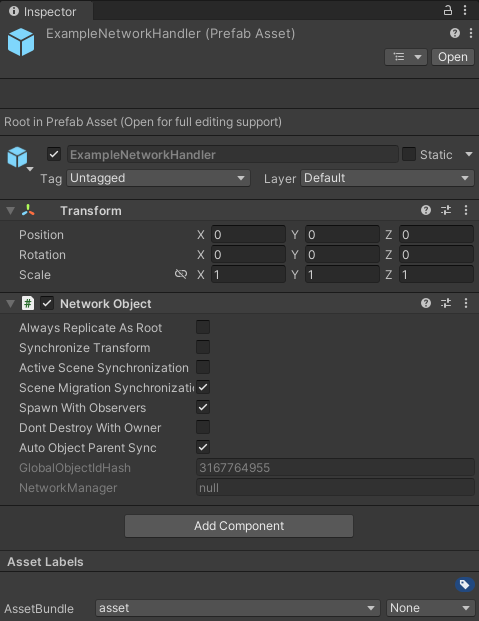
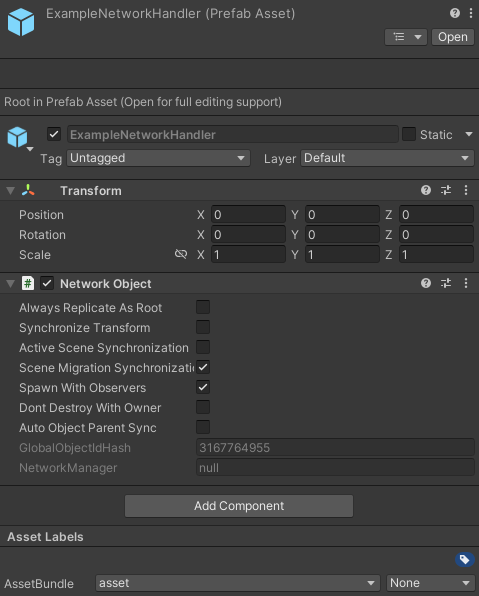
Add a warning to article; Change block quotes to Info blocks (#22)
* Add a warning to article; Change block quotes to Info blocks

some clarification and emphasis as well

* Remove Netstandard2.1 Requirement Info

Unity Netcode Weaver no longer requires using netstandard2.1 - was an assumption that it was potentially causing errors, but does not seem like it does

* Update Prefab Picture

Evaisa recommended disabling Auto Object Parent Sync in the Network Object component due to issues they've ran into due to it being enabled

diff --git a/docs/user-guide/modding/advanced/networking.md b/docs/user-guide/modding/advanced/networking.md
@@ -1,7 +1,8 @@
 # Custom Networking
 
->**Note:** This is not a tutorial on how to use Unity's [Netcode for GameObjects](https://docs-multiplayer.unity3d.com/netcode/current/tutorials/get-started-ngo/) RPCs and Network Variables.  
->This is only meant to be used to understand <i>how</i> to implement custom networking into the game.
+!> **Warning: This is an advanced article. While this introduces some C# concepts, it is highly recommended to understand C# and the basics of modding this game <i>before</i> reading this article.**
+
+?>**Note:** This is not a tutorial on how to use Unity's [Netcode for GameObjects](https://docs-multiplayer.unity3d.com/netcode/current/tutorials/get-started-ngo/) RPCs and Network Variables. This is only meant to be used to understand <i>how</i> to implement custom networking into the game.
 
 ## Preface
 
@@ -55,8 +56,6 @@ Essentially, this allows you to create and use RPCs, Network Variables, etc.
 ### Other Setup Required
 
 There **must** be a project reference to `Unity.Netcode.Runtime.dll` to utilize Netcode for GameObjects. You can refer to [this section](./starting-a-mod?id=adding-game-assemblies) of this wiki to add it.
-
-><b><i>In addition, the mod must use </i></b>`netstandard2.1`<b><i>. Failure to do so can cause Unity Netcode Weaver to not function!</i></b> (You should be using `netstandard2.1` anyways since the game is built with that.)
 
 ## Introduction
 
@@ -254,9 +253,7 @@ Now that we have the prefab ready to be loaded, it's quite simple to give this t
 NetworkManager.Singleton.AddNetworkPrefab(networkPrefab);
 ```
 
->**Note:** You can only add network prefabs to NetworkManager **before** the player creates or joins a server. You can also do so after the player leaves the server.
->
->If you try to add a network prefab while the player is connected to a server, it will result in an error and your object <u>will not</u> be loaded.
+?>**Note:** You can only add network prefabs to NetworkManager **before** the player creates or joins a server. You can also do so after the player leaves the server.<br><br>If you try to add a network prefab while the player is connected to a server, it will result in an error and your object <u>will not</u> be loaded.
 
 To prevent any errors, we do this shortly after the prefab is loaded:
 
@@ -283,9 +280,7 @@ var networkHandlerHost = Object.Instantiate(networkPrefab, Vector3.zero, Quatern
 networkHandlerHost.GetComponent<NetworkObject>().Spawn();
 ```
 
->**Note:** While you can put <i>false</i> as a parameter in the Spawn method to prevent the game from auto-deleting the object, you shouldn't in this case! The object stays loaded in `SampleSceneRelay`, which is the main ship scene. 
->
->This scene never gets unloaded until disconnecting from the server - <i>precisely</i> when we want the network object to be destroyed!
+?>**Note:** While you can put <i>false</i> as a parameter in the Spawn method to prevent the game from auto-deleting the object, you shouldn't in this case! The object stays loaded in `SampleSceneRelay`, which is the main ship scene.<br><br>This scene never gets unloaded until disconnecting from the server - <i>precisely</i> when we want the network object to be destroyed!
 
 But wait, there's a catch: Only the host/server is allowed to spawn the network object! To prevent clients from spawning the object, we can do something simple. We just check whether the game instance is a host or a client:
 
@@ -363,19 +358,15 @@ static void ReceivedEventFromServer(string eventName)
 
 What does this all do? Well, `NetworkHandler.LevelEvent += ReceivedEventFromServer` simply tells C# that we want `ReceivedEventFromServer(string eventName)` to run when the `LevelEvent` event is invoked. `NetworkHandler.LevelEvent -= Received` tells C# that we no longer want `ReceivedEventFromServer` to run when the event is invoked.
 
->**Note:** When subscribing and unsubscribing to an event, make sure that <i>both</i> the host and the client do so. Both `GenerateNewLevelClientRpc` and `DespawnPropsAtEndOfRound` run on all game instances - even if the latter method immediately attempts to return if the game instance is not the host.
->
->If you don't ensure both the host and clients subscribe/unsubscribe to an event, it very quickly leads to unwanted behavior. For example, if the client doesn't unsubscribe in our test mod, events will be duplicated on client instances since the event will be subscribed to multiple times.
+?>**Note:** When subscribing and unsubscribing to an event, make sure that <i>both</i> the host and the client do so. Both `GenerateNewLevelClientRpc` and `DespawnPropsAtEndOfRound` run on all game instances - even if the latter method immediately attempts to return if the game instance is not the host.<br><br>If you don't ensure both the host and clients subscribe/unsubscribe to an event, it very quickly leads to unwanted behavior. For example, if the client doesn't unsubscribe in our test mod, events will be duplicated on client instances since the event will be subscribed to multiple times.
 
 ## Using UnityNetcodeWeaver
 
 Now that we've finished the networking code, all that's left is to patch the compiled mod assembly with Unity Netcode Weaver/Patcher. Before we can do so, we need to prepare the mod for patching. 
 
-First, ***ensure that you are using netstandard2.1 [as aforementioned.](/custom-networking?id=other-setup-required)***
+1. Make sure that there is a .pdb file when you build your plugin. If it is not there, make sure that Debug Symbols is set to `Portable` and not embedded.
 
-Second, make sure that there is a .pdb file when you build your plugin. If it is not there, make sure that Debug Symbols is set to `Portable` and not embedded.
-
-Finally, add the following code to your main Plugin.cs file, and make sure the method only runs once:
+2. Add the following code to your main Plugin.cs file, and make sure the method only runs **once**:
 
 ```cs
 private static void NetcodeWeaver()
